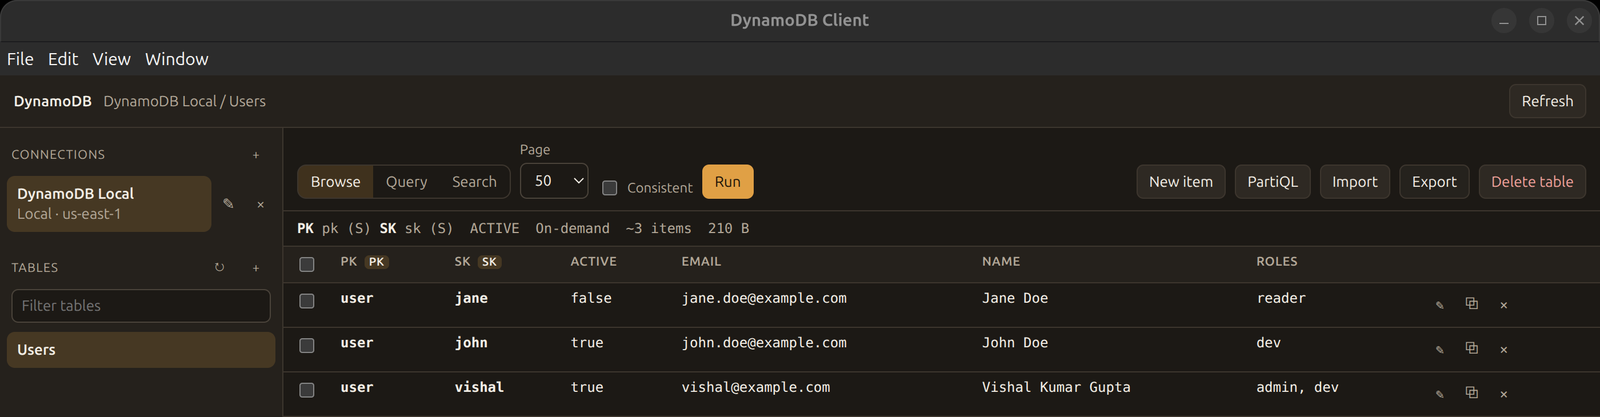
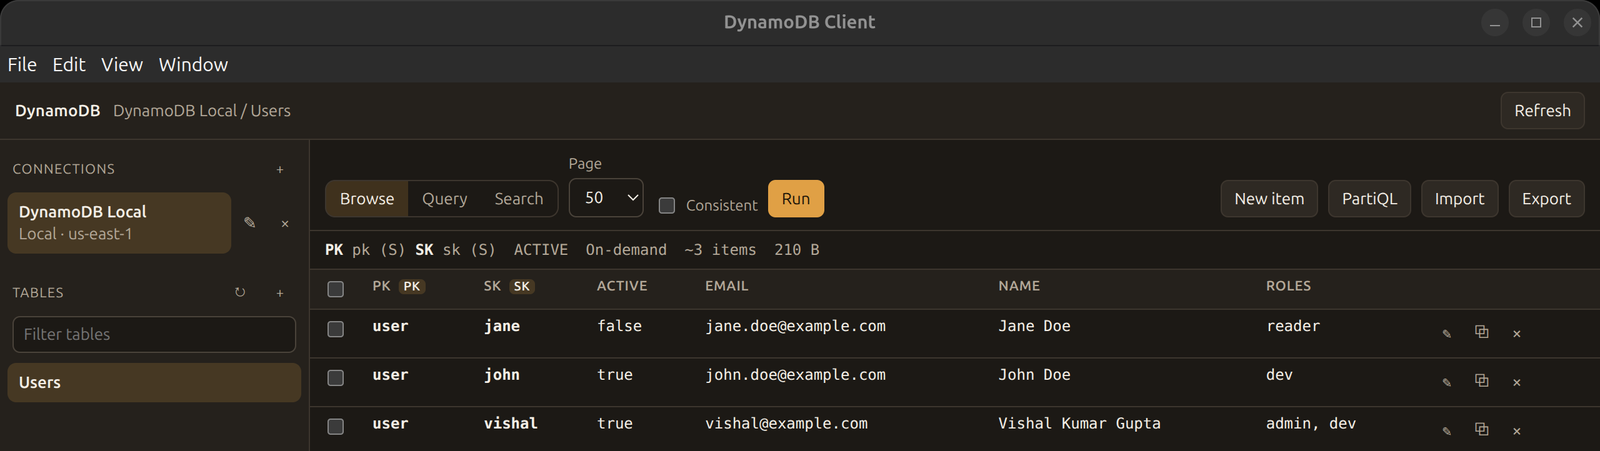
Keep search in step with the table and put deletes next to their targets.

diff --git a/packages/ui/src/App.tsx b/packages/ui/src/App.tsx
@@ -81,7 +81,7 @@ export function App() {
   const [info, setInfo] = useState<AppInfo>({ encryption: true, platform: "", product: "vscode" });
   const [creatingTable, setCreatingTable] = useState(false);
   const [partiql, setPartiql] = useState(false);
-  const [deleteTableOpen, setDeleteTableOpen] = useState(false);
+  const [tableToDelete, setTableToDelete] = useState<string>();
   const [deleteTableText, setDeleteTableText] = useState("");
   const [confirm, setConfirm] = useState<{ title: string; body: string; confirmLabel: string; danger?: boolean; run: () => Promise<void> }>();
   const pageSeq = useRef(0);
@@ -318,20 +318,6 @@ export function App() {
         <div className="crumb">{connection ? connection.name : "No connection"}{tableName ? ` / ${tableName}` : ""}</div>
         <span className="spacer" />
         <button className="btn" onClick={() => void refreshTables()} disabled={!connectionId || loading}>Refresh</button>
-        {selectedItems.length > 0 ? (
-          <button
-            className="btn btn-danger"
-            onClick={() => setConfirm({
-              title: "Delete items",
-              body: `Delete ${selectedItems.length} selected items from ${tableName}?`,
-              confirmLabel: "Delete",
-              danger: true,
-              run: () => deleteItems(selectedItems),
-            })}
-          >
-            Delete {selectedItems.length}
-          </button>
-        ) : null}
       </header>
       <Sidebar
         connections={connections}
@@ -361,6 +347,7 @@ export function App() {
           },
         })}
         onCreateTable={() => setCreatingTable(true)}
+        onDeleteTable={(name) => { setDeleteTableText(""); setTableToDelete(name); }}
         onRefresh={() => void refreshTables()}
       />
       <main className="main">
@@ -389,7 +376,14 @@ export function App() {
               onPartiQL={() => setPartiql(true)}
               onImport={() => void importItems()}
               onExport={() => void exportItems()}
-              onDeleteTable={() => { setDeleteTableText(""); setDeleteTableOpen(true); }}
+              selectedCount={selectedItems.length}
+              onDeleteSelected={() => setConfirm({
+                title: "Delete items",
+                body: `Delete ${selectedItems.length} selected items from ${tableName}?`,
+                confirmLabel: "Delete",
+                danger: true,
+                run: () => deleteItems(selectedItems),
+              })}
             />
             {description ? (
               <div className="meta">
@@ -516,19 +510,20 @@ export function App() {
           onRun={(statement, parameters, nextToken) => api.execute(connectionId, statement, parameters, nextToken)}
         />
       ) : null}
-      {deleteTableOpen && tableName && connectionId ? (
+      {tableToDelete && connectionId ? (
         <DeleteTablePrompt
-          tableName={tableName}
+          tableName={tableToDelete}
           text={deleteTableText}
           onText={setDeleteTableText}
           busy={loading}
-          onClose={() => setDeleteTableOpen(false)}
+          onClose={() => setTableToDelete(undefined)}
           onConfirm={async () => {
-            await api.deleteTable(connectionId, tableName);
-            setDeleteTableOpen(false);
-            setTableName(undefined);
+            const removed = tableToDelete;
+            await api.deleteTable(connectionId, removed);
+            setTableToDelete(undefined);
+            if (tableName === removed) setTableName(undefined);
             setTables(await api.listTables(connectionId));
-            flash(`Deleted ${tableName}.`);
+            flash(`Deleted ${removed}.`);
           }}
         />
       ) : null}

diff --git a/packages/ui/src/components/QueryBar.tsx b/packages/ui/src/components/QueryBar.tsx
@@ -35,7 +35,8 @@ export function QueryBar(props: {
   onPartiQL: () => void;
   onImport: () => void;
   onExport: () => void;
-  onDeleteTable: () => void;
+  selectedCount: number;
+  onDeleteSelected: () => void;
 }) {
   const [mode, setMode] = useState<PageRequest["kind"]>("scan");
   const [limit, setLimit] = useState(50);
@@ -55,14 +56,35 @@ export function QueryBar(props: {
   const sort = keys.find((key) => key.role === "RANGE");
   const gsi = index?.type === "GSI";
 
+  function shared() {
+    return { limit, consistentRead: gsi ? false : consistent, indexName: indexName || undefined };
+  }
+
+  function showAll() {
+    if (!props.description) return;
+    props.onRun({ kind: "scan", ...shared() });
+  }
+
+  function runSearch(value = text) {
+    if (!props.description) return;
+    const query = value.trim();
+    if (!query) {
+      showAll();
+      return;
+    }
+    props.onRun({ kind: "search", ...shared(), text: query, attribute: attribute || undefined });
+  }
+
   function run() {
-    const shared = { limit, consistentRead: gsi ? false : consistent, indexName: indexName || undefined };
-    if (mode === "scan") props.onRun({ kind: "scan", ...shared });
-    else if (mode === "search") props.onRun({ kind: "search", ...shared, text, attribute: attribute || undefined });
+    if (mode === "scan" || (mode === "search" && !text.trim())) {
+      showAll();
+      return;
+    }
+    if (mode === "search") runSearch();
     else {
       props.onRun({
         kind: "query",
-        ...shared,
+        ...shared(),
         partitionKeyValue,
         sortKeyOperator: sortKeyOperator || undefined,
         sortKeyValue: sortKeyValue || undefined,
@@ -80,7 +102,16 @@ export function QueryBar(props: {
           ["query", "Query"],
           ["search", "Search"],
         ] as const).map(([id, label]) => (
-          <button key={id} role="tab" aria-selected={mode === id} onClick={() => setMode(id)}>{label}</button>
+          <button
+            key={id}
+            role="tab"
+            aria-selected={mode === id}
+            onClick={() => {
+              setMode(id);
+              if (id === "scan") showAll();
+              if (id === "search") runSearch();
+            }}
+          >{label}</button>
         ))}
       </div>
       {props.description && props.description.indexes.length > 0 ? (
@@ -133,7 +164,11 @@ export function QueryBar(props: {
             <input
               value={text}
               placeholder="Matches top-level strings. Type an attribute to narrow it."
-              onChange={(event) => setText(event.target.value)}
+              onChange={(event) => {
+                const next = event.target.value;
+                setText(next);
+                if (!next.trim() && text.trim()) showAll();
+              }}
               onKeyDown={(event) => { if (event.key === "Enter") run(); }}
             />
           </label>
@@ -164,7 +199,9 @@ export function QueryBar(props: {
       <button className="btn" onClick={props.onPartiQL} disabled={!props.description}>PartiQL</button>
       <button className="btn" onClick={props.onImport} disabled={!props.description}>Import</button>
       <button className="btn" onClick={props.onExport} disabled={!props.description}>Export</button>
-      <button className="btn btn-danger" onClick={props.onDeleteTable} disabled={!props.description}>Delete table</button>
+      {props.selectedCount > 0 ? (
+        <button className="btn btn-danger" onClick={props.onDeleteSelected}>Delete {props.selectedCount}</button>
+      ) : null}
     </div>
   );
 }

diff --git a/packages/ui/src/components/Sidebar.tsx b/packages/ui/src/components/Sidebar.tsx
@@ -14,6 +14,7 @@ export function Sidebar(props: {
   onEditConnection: (connection: PublicConnection) => void;
   onDeleteConnection: (connection: PublicConnection) => void;
   onCreateTable: () => void;
+  onDeleteTable: (name: string) => void;
   onRefresh: () => void;
 }) {
   const filtered = props.tables.filter((name) => name.toLowerCase().includes(props.filter.trim().toLowerCase()));
@@ -56,15 +57,34 @@ export function Sidebar(props: {
       <div className="table-list">
         {props.connectionId && filtered.length === 0 ? <div className="muted" style={{ padding: "4px 8px" }}>No tables.</div> : null}
         {filtered.map((name) => (
-          <button
-            key={name}
-            className={name === props.tableName ? "nav-item active" : "nav-item"}
-            onClick={() => props.onSelectTable(name)}
-          >
-            <strong>{name}</strong>
-          </button>
+          <div className="nav-row" key={name}>
+            <button
+              className={name === props.tableName ? "nav-item active" : "nav-item"}
+              onClick={() => props.onSelectTable(name)}
+            >
+              <strong>{name}</strong>
+            </button>
+            <button
+              className="icon-btn danger"
+              aria-label={`Delete table ${name}`}
+              title="Delete table"
+              onClick={() => props.onDeleteTable(name)}
+            >
+              <TrashIcon />
+            </button>
+          </div>
         ))}
       </div>
     </aside>
+  );
+}
+
+function TrashIcon() {
+  return (
+    <svg width="15" height="15" viewBox="0 0 24 24" fill="none" stroke="currentColor" strokeWidth="1.8" strokeLinecap="round" strokeLinejoin="round" aria-hidden="true">
+      <path d="M4 7h16" />
+      <path d="M9 7V5h6v2" />
+      <path d="M7 7l1 13h8l1-13" />
+    </svg>
   );
 }

diff --git a/packages/ui/src/styles.css b/packages/ui/src/styles.css
@@ -116,6 +116,8 @@ button:disabled { cursor: not-allowed; opacity: 0.55; }
 }
 .conn-list, .table-list { overflow: auto; padding: 0 6px 8px; }
 .table-list { flex: 1; }
+.icon-btn.danger { color: var(--danger); }
+.icon-btn.danger:hover { color: var(--danger); }
 .nav-item, .icon-btn, .btn, .segmented button {
   border: 1px solid transparent;
   background: transparent;

diff --git a/docs/user-guide.md b/docs/user-guide.md
@@ -52,7 +52,7 @@ Select a connection, then a table. **Filter tables** narrows the list. **Refresh
 
 The toolbar has three read modes:
 
-- **Browse** scans the table or the selected index, one page at a time.
+- **Browse** scans the table or the selected index, one page at a time. Click **Browse** to leave a search or query and show every item again. Clearing the search text does the same. Click **Search** again to run the text still in the box.
 - **Query** reads by partition key. If the table or index has a sort key, you can set it to `=`, `begins with`, `<`, `<=`, `>`, `>=`, `between`, or **Any**. **begins with** applies to string sort keys. **Descending** reverses the sort.
 - **Search** finds text in top-level string attributes. Leave **Attribute** blank to search up to eight of those attributes, or type one name to search only that field. This is a scan. It uses read capacity. It is not a full-text index.
 
@@ -77,7 +77,7 @@ The editor uses plain JSON:
 
 If you change the key and save, the editor offers to delete the original after the new item is written.
 
-The **×** on a row deletes that item after you confirm. Check several rows and the header shows **Delete N** for the selection. You can delete up to 100 items at a time. The copy icon puts that item's JSON on the clipboard.
+The **×** on a row deletes that item after you confirm. Check several rows and the toolbar shows **Delete N** next to Export. You can delete up to 100 items at a time. The copy icon puts that item's JSON on the clipboard.
 
 ## Import and export
 
@@ -93,7 +93,7 @@ The **×** on a row deletes that item after you confirm. Check several rows and 
 
 **+** next to Tables opens **Create table**. You set the table name, a partition key, and an optional sort key. Each key is String, Number, or Binary. The table is on-demand. This dialog creates the base table only. Add indexes in AWS. The client can query indexes that already exist.
 
-**Delete table** asks you to type the table name. That deletes the table and every item in it.
+Each table in the sidebar has a trash icon. It asks you to type the table name. That deletes the table and every item in it.
 
 ## Limits
 
